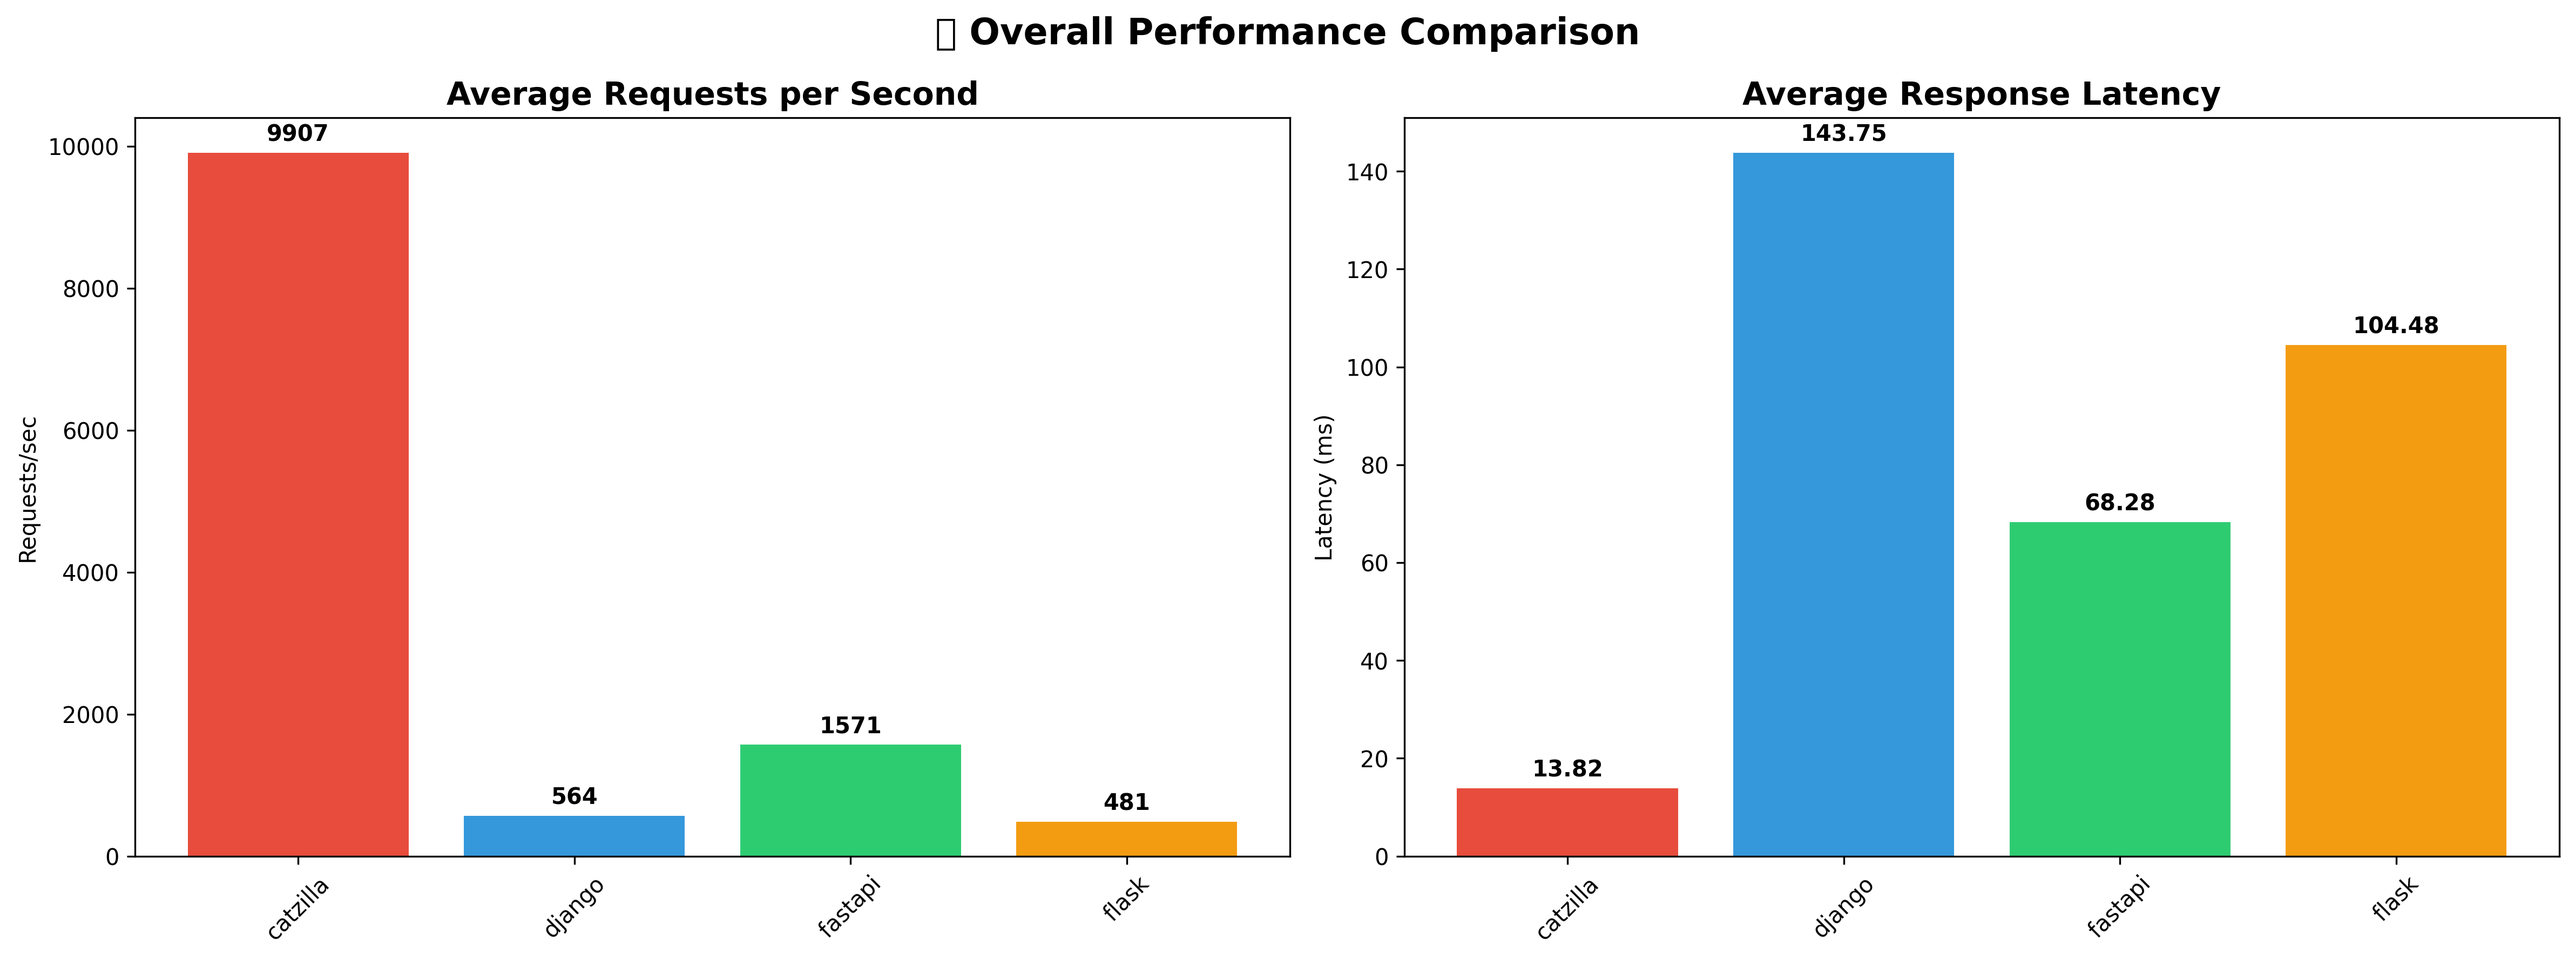
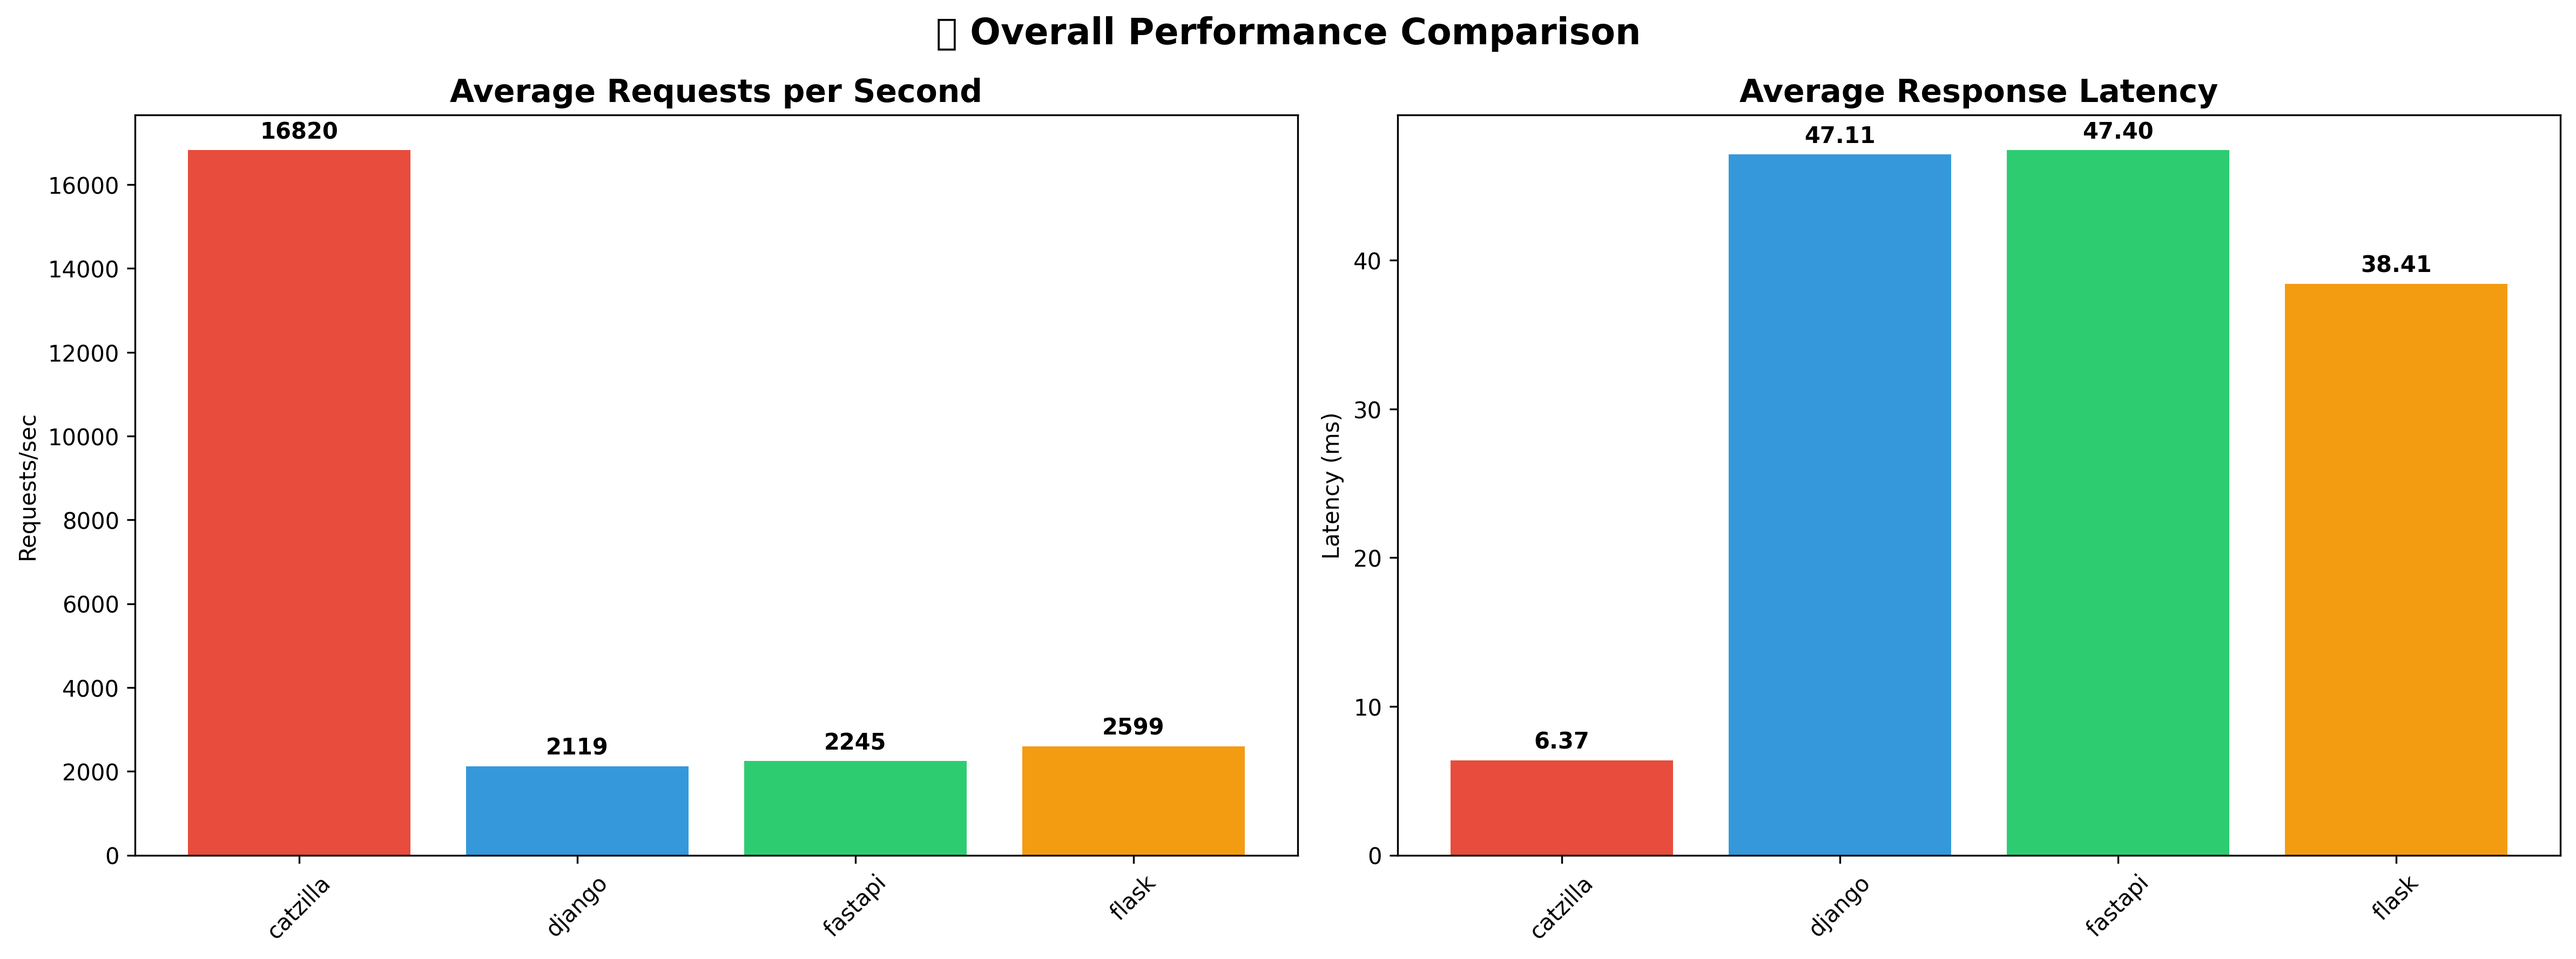
Update: Benchmarks updated

diff --git a/benchmarks/results/performance_report.md b/benchmarks/results/performance_report.md
@@ -1,71 +1,72 @@
 # 🚀 Catzilla Performance Benchmark Report
 
-Generated on: 2025-05-25 18:39:27
+Generated on: 2025-05-25 16:37:11
 
 ## 📊 Executive Summary
 
 - **Best Overall RPS Framework**: catzilla
 - **Best Overall Latency Framework**: catzilla
-- **Catzilla vs Django**: +1655.7% requests/sec
-- **Catzilla vs Fastapi**: +530.6% requests/sec
-- **Catzilla vs Flask**: +1960.8% requests/sec
+- **Catzilla vs Django**: +693.9% requests/sec
+- **Catzilla vs Fastapi**: +649.3% requests/sec
+- **Catzilla vs Flask**: +547.1% requests/sec
 
 ## 📈 Detailed Framework Statistics
 
 ### Catzilla
-- **Avg RPS**: 9907 (±1503)
-- **Max RPS**: 11962
-- **Avg Latency**: 13.82ms (±2.71)
-- **Min Latency**: 9.85ms
+- **Avg RPS**: 16820 (±5060)
+- **Max RPS**: 24637
+- **Avg Latency**: 6.37ms (±1.78)
+- **Min Latency**: 4.06ms
 
 ### Django
-- **Avg RPS**: 564 (±129)
-- **Max RPS**: 673
-- **Avg Latency**: 143.75ms (±23.24)
-- **Min Latency**: 124.69ms
+- **Avg RPS**: 2119 (±137)
+- **Max RPS**: 2297
+- **Avg Latency**: 47.11ms (±3.10)
+- **Min Latency**: 43.31ms
 
 ### Fastapi
-- **Avg RPS**: 1571 (±362)
-- **Max RPS**: 1868
-- **Avg Latency**: 68.28ms (±21.98)
-- **Min Latency**: 53.63ms
+- **Avg RPS**: 2245 (±588)
+- **Max RPS**: 2921
+- **Avg Latency**: 47.40ms (±14.72)
+- **Min Latency**: 34.13ms
 
 ### Flask
-- **Avg RPS**: 481 (±472)
-- **Max RPS**: 988
-- **Avg Latency**: 104.48ms (±11.50)
-- **Min Latency**: 88.82ms
+- **Avg RPS**: 2599 (±171)
+- **Max RPS**: 2851
+- **Avg Latency**: 38.41ms (±2.49)
+- **Min Latency**: 34.90ms
 
 ## 🎯 Endpoint Performance Breakdown
 
 ### Complex Json
-🥇 **Catzilla**: 11962 req/s
-🥈 **Fastapi**: 1703 req/s
-🥉 **Django**: 673 req/s
-   **Flask**: 34 req/s
+🥇 **Catzilla**: 13803 req/s
+🥈 **Flask**: 2516 req/s
+🥉 **Django**: 2104 req/s
+   **Fastapi**: 2003 req/s
 
 ### Hello World
-🥇 **Catzilla**: 10313 req/s
-🥈 **Fastapi**: 1734 req/s
-🥉 **Flask**: 974 req/s
-   **Django**: 576 req/s
+🥇 **Catzilla**: 24637 req/s
+🥈 **Fastapi**: 2921 req/s
+🥉 **Flask**: 2851 req/s
+   **Django**: 2297 req/s
 
 ### Json Response
-🥇 **Catzilla**: 10390 req/s
-🥈 **Fastapi**: 1603 req/s
-🥉 **Django**: 628 req/s
-   **Flask**: 68 req/s
+🥇 **Catzilla**: 18408 req/s
+🥈 **Flask**: 2664 req/s
+🥉 **Fastapi**: 2616 req/s
+   **Django**: 2159 req/s
 
 ### Path Params
-🥇 **Catzilla**: 8235 req/s
-🥈 **Fastapi**: 1868 req/s
-🥉 **Flask**: 988 req/s
+🥇 **Catzilla**: 15775 req/s
+🥈 **Flask**: 2570 req/s
+🥉 **Fastapi**: 2292 req/s
+   **Django**: 2117 req/s
 
 ### Query Params
-🥇 **Catzilla**: 8634 req/s
-🥈 **Fastapi**: 946 req/s
-🥉 **Django**: 380 req/s
-   **Flask**: 341 req/s
+🥇 **Catzilla**: 11474 req/s
+🥈 **Flask**: 2394 req/s
+🥉 **Django**: 1916 req/s
+   **Fastapi**: 1391 req/s
 
 ## ⚙ Test Configuration
 

diff --git a/benchmarks/results/benchmark_summary.md b/benchmarks/results/benchmark_summary.md
@@ -5,4 +5,4 @@
 - **Connections**: 100
 - **Threads**: 4
 - **Tool**: wrk
-- **Date**: Sun May 25 18:14:08 +06 2025
+- **Date**: Sun May 25 16:29:41 BST 2025
